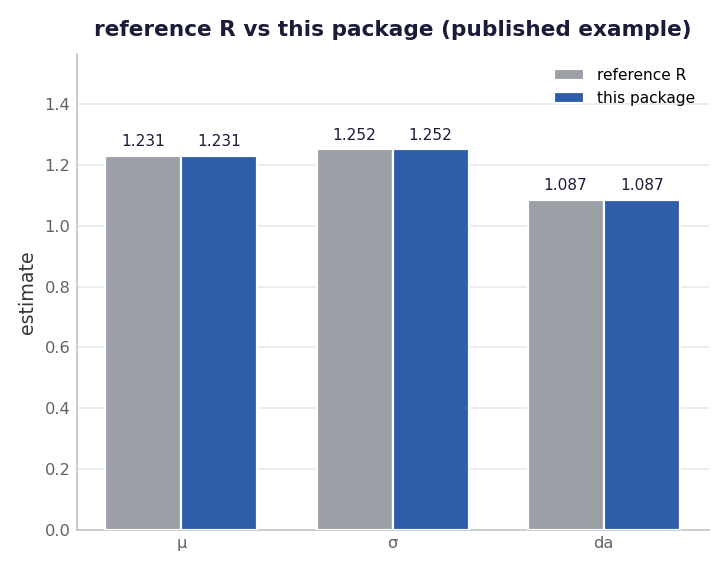
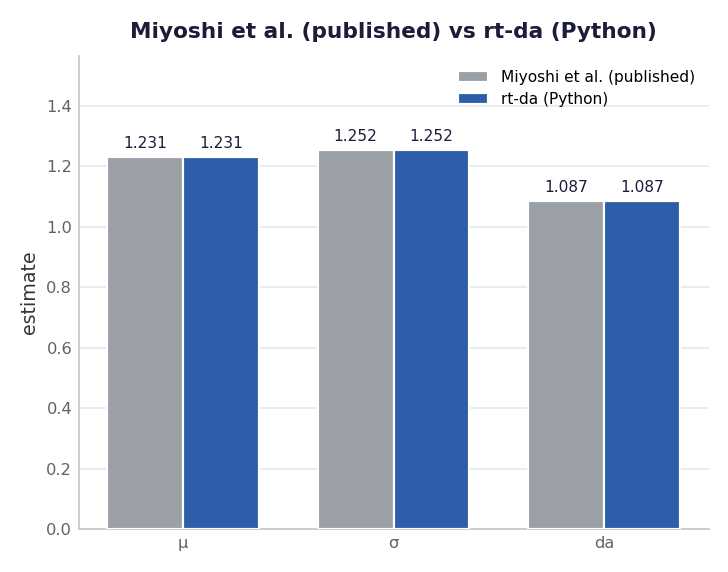
updated

diff --git a/README.md b/README.md
@@ -123,8 +123,8 @@ fit = rt_da.fit_uvsdt_mle(nr_s1, nr_s2, add_constant=True)
 
 ## Validation
 
-This package is validated against the reference R implementation
-(kiyomiyoshi/rt_type1_roc) at two levels.
+This package is validated against the published reference implementation
+(Miyoshi et al.; kiyomiyoshi/rt_type1_roc) at two levels.
 
 **1. The published example.** Fitting the reference's own published count
 vectors reproduces their reported parameters to the printed digits:
@@ -133,17 +133,21 @@ vectors reproduces their reported parameters to the printed digits:
 fit_uvsdt_mle([10,7,16,27,29,10], [43,21,10,12,8,3])
 ```
 
-| parameter | reference R | this package | abs. diff |
-|-----------|------------:|-------------:|----------:|
-| μ         |      1.2314 |       1.2314 |   < 1e-4  |
-| σ         |      1.2523 |       1.2523 |   < 1e-4  |
-| da        |      1.0867 |       1.0867 |   < 1e-4  |
-| log L     |    −315.88  |     −315.88  |   < 2e-3  |
+| parameter | Miyoshi et al. (published) | rt-da (Python) | abs. diff |
+|-----------|---------------------------:|---------------:|----------:|
+| μ         |                     1.2314 |         1.2314 |   < 1e-4  |
+| σ         |                     1.2523 |         1.2523 |   < 1e-4  |
+| da        |                     1.0867 |         1.0867 |   < 1e-4  |
+| log L     |                   −315.88  |       −315.88  |   < 2e-3  |
 
-![Reference R vs this package on the published example: μ, σ, and da match to plotting precision.](docs/rtda_fig4_reference_validation.png)
+Miyoshi et al. (published) = the parameters reported in the reference paper /
+implementation (kiyomiyoshi/rt_type1_roc); rt-da (Python) = `fit_uvsdt_mle`
+in this package, computed on the same count vectors.
 
-*The reference R implementation and this package return the same μ, σ, and da
-on the published example — the bars are indistinguishable.*
+![Miyoshi et al. (published) vs rt-da (Python) on the published example: μ, σ, and da match to plotting precision.](docs/rtda_fig4_reference_validation.png)
+
+*Miyoshi et al.'s published values and rt-da (Python) return the same μ, σ,
+and da on the published example — the bars are indistinguishable.*
 
 **2. Per-subject estimates on real datasets.** The test suite refits the
 reference implementation's per-subject estimates on the Mazor (2020) and